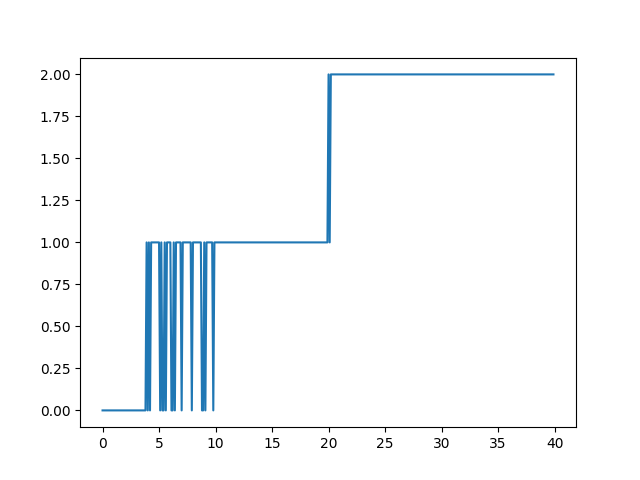
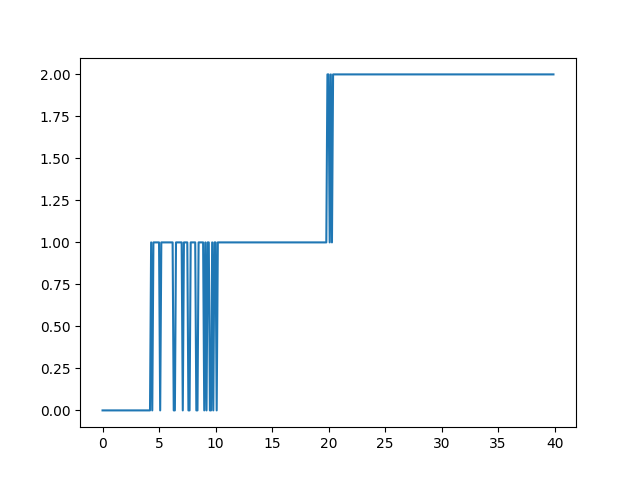
changed files

Changed region(s): [[0.2188, 0.5, 0.3438, 0.875], [0.5, 0.1562, 0.5312, 0.5]]

diff --git a/components/client_oracle.py b/components/client_oracle.py
@@ -144,9 +144,9 @@ class Oracle():
 
 
 
-        self.group_dist = self.client_dataset_selection_matrix_groups.sum(axis=0)
-        self.group_dist[0:self.n_categories_per_group[0]] = self.group_dist[0:self.n_categories_per_group[0]]/np.max(self.group_dist[0:self.n_categories_per_group[0]])
-        self.group_dist[self.n_categories_per_group[0]:] = self.group_dist[self.n_categories_per_group[0]:]/np.max(self.group_dist[self.n_categories_per_group[0]:])
+        # self.group_dist = self.client_dataset_selection_matrix_groups.sum(axis=0)
+        # self.group_dist[0:self.n_categories_per_group[0]] = self.group_dist[0:self.n_categories_per_group[0]]/np.max(self.group_dist[0:self.n_categories_per_group[0]])
+        # self.group_dist[self.n_categories_per_group[0]:] = self.group_dist[self.n_categories_per_group[0]:]/np.max(self.group_dist[self.n_categories_per_group[0]:])
         for client in range(self.n_clients):
             self.client_selection_matrix[client] = np.random.choice([0,1],p = self.p_stay[int(self.client_selection_matrix[client])])
         if self.client_selection_matrix.sum() == 0:
@@ -179,7 +179,7 @@ class Oracle():
 
     def get_oracle_success(self,learner,type_state="group"):
         round_success_coefficient = self.class_dist[self.learner_class_preference[learner][0]]+self.class_dist[self.learner_class_preference[learner][1]]
-        round_success_coefficients_groups = self.group_dist[self.learner_group_preference[learner]]
+        # round_success_coefficients_groups = self.group_dist[self.learner_group_preference[learner]]
         if type_state == "class":
             return self.success_thresholds <= round_success_coefficient
         else:

diff --git a/components/client.py b/components/client.py
@@ -35,14 +35,14 @@ class Client():
         self.training_data = pd.DataFrame()
         for class_idx in range(self.n_classes):
             if dataset_selection_row[class_idx] != 0 and self.df[self.df['label']==class_idx].size != 0:
-                print("class_idx: ",class_idx,", dataset_selection_row[class_idx]: ",dataset_selection_row[class_idx],", self.df[self.df['label']==class_idx].size: ",len(self.df[self.df['label']==class_idx]))
+                # print("class_idx: ",class_idx,", dataset_selection_row[class_idx]: ",dataset_selection_row[class_idx],", self.df[self.df['label']==class_idx].size: ",len(self.df[self.df['label']==class_idx]))
                 if dataset_selection_row[class_idx] > len(self.df[self.df['label']==class_idx].index):
                     sampled_training_data = self.df[self.df['label']==class_idx].index
                 else:
                     sampled_training_data = np.random.choice(self.df[self.df['label']==class_idx].index, size=int(dataset_selection_row[class_idx]), replace=False)
                 self.training_data = pd.concat([self.training_data,self.df.iloc[sampled_training_data,:]])
         self.training_data = self.training_data.reset_index(drop=True)
-        print("self.training_data.shape: ",self.training_data.shape)
+        # print("self.training_data.shape: ",self.training_data.shape)
 
     
     def train(self):

diff --git a/train_spane.py b/train_spane.py
@@ -2,8 +2,9 @@
 import numpy as np
 import matplotlib.pyplot as plt
 import tqdm as tqdm
-from utils import get_action_from, get_current_learner, retrieve_cost
-    
+from utils.funcs import get_action_from, get_current_learner, retrieve_cost
+from components.net import CNN
+ 
 from components.client_oracle import Oracle
 
 delta = np.array([0.15,0.15,0.15,0.15,0.15])
@@ -38,6 +39,7 @@ step_lagrange = 0.01
 scale_parameter = 2000
 
 oracle = Oracle()
+oracle.initialize_clients(CNN)
 ### Set numpy print precision to 2
 np.set_printoptions(precision=1)
 # print(oracle.return_success_probability_classes(100000,[[0,1],[2,3],[4,5],[6,7],[8,9]]))
